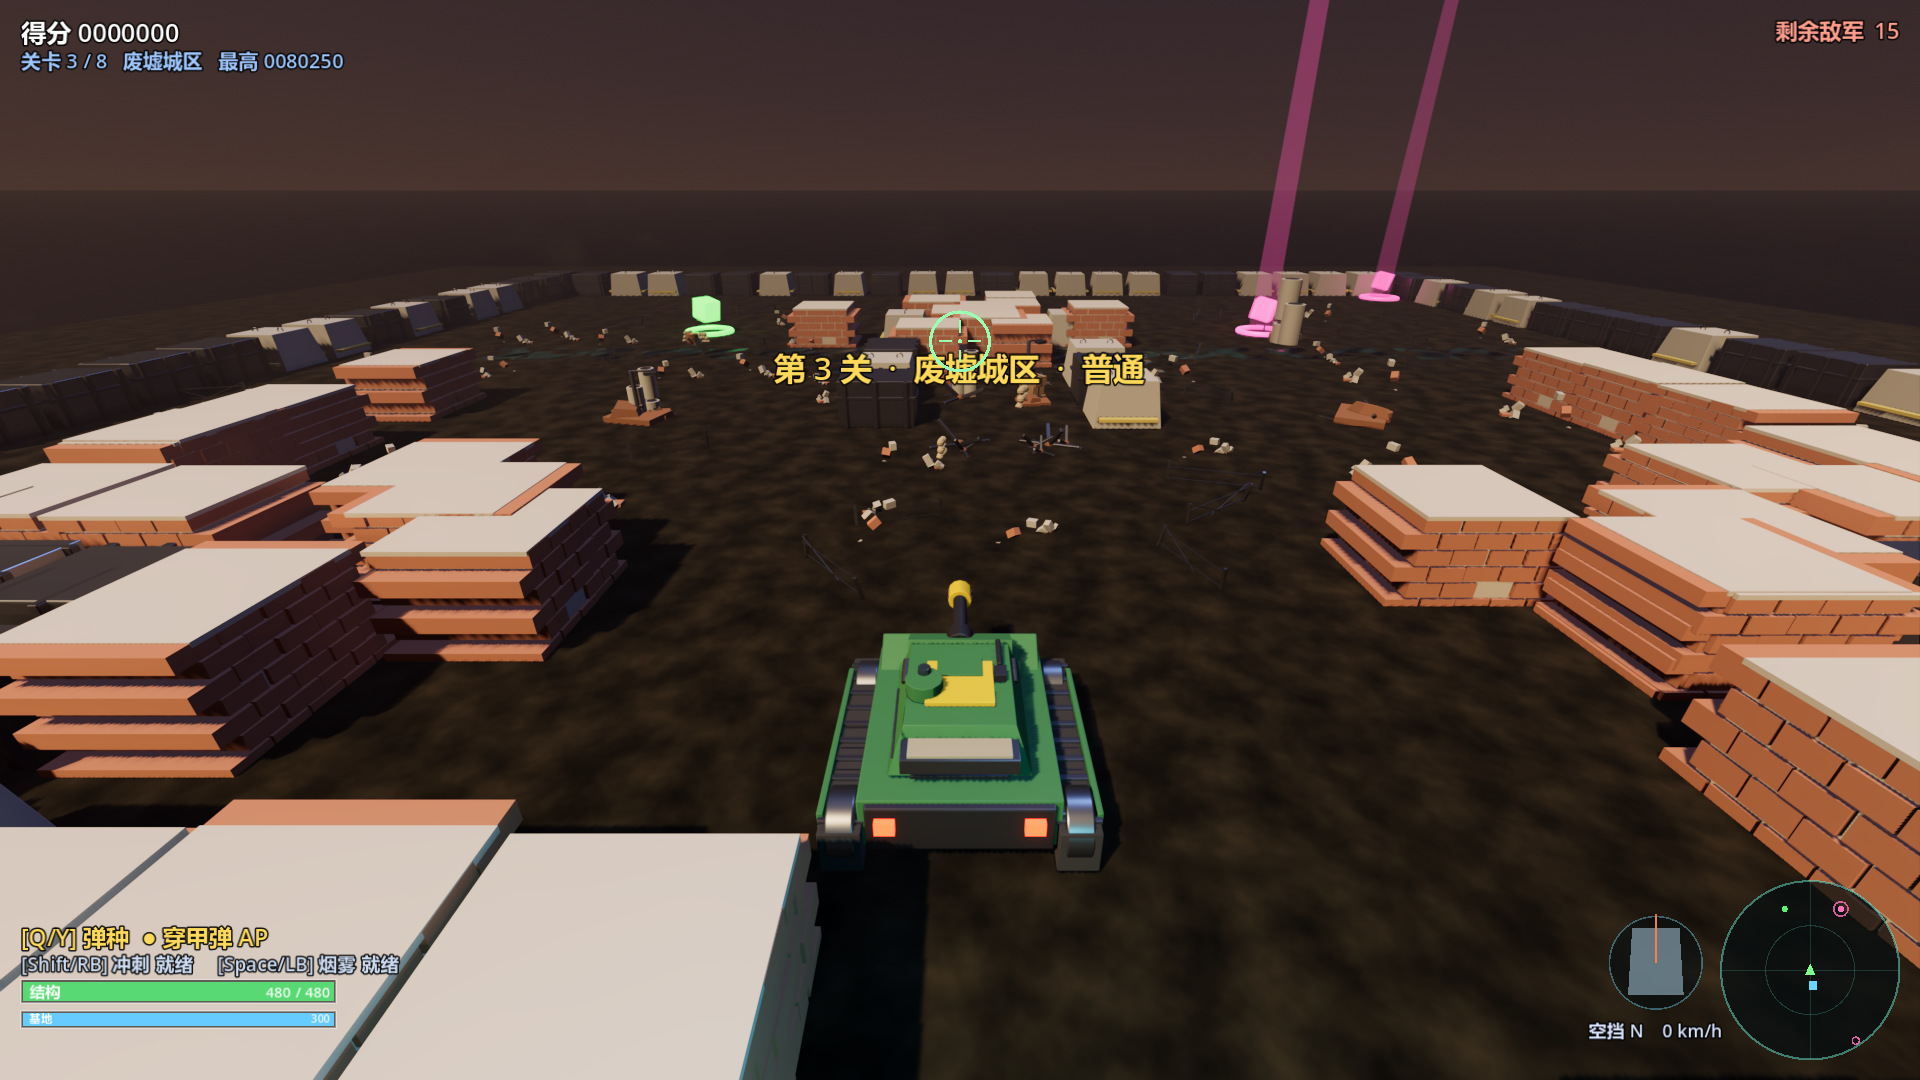
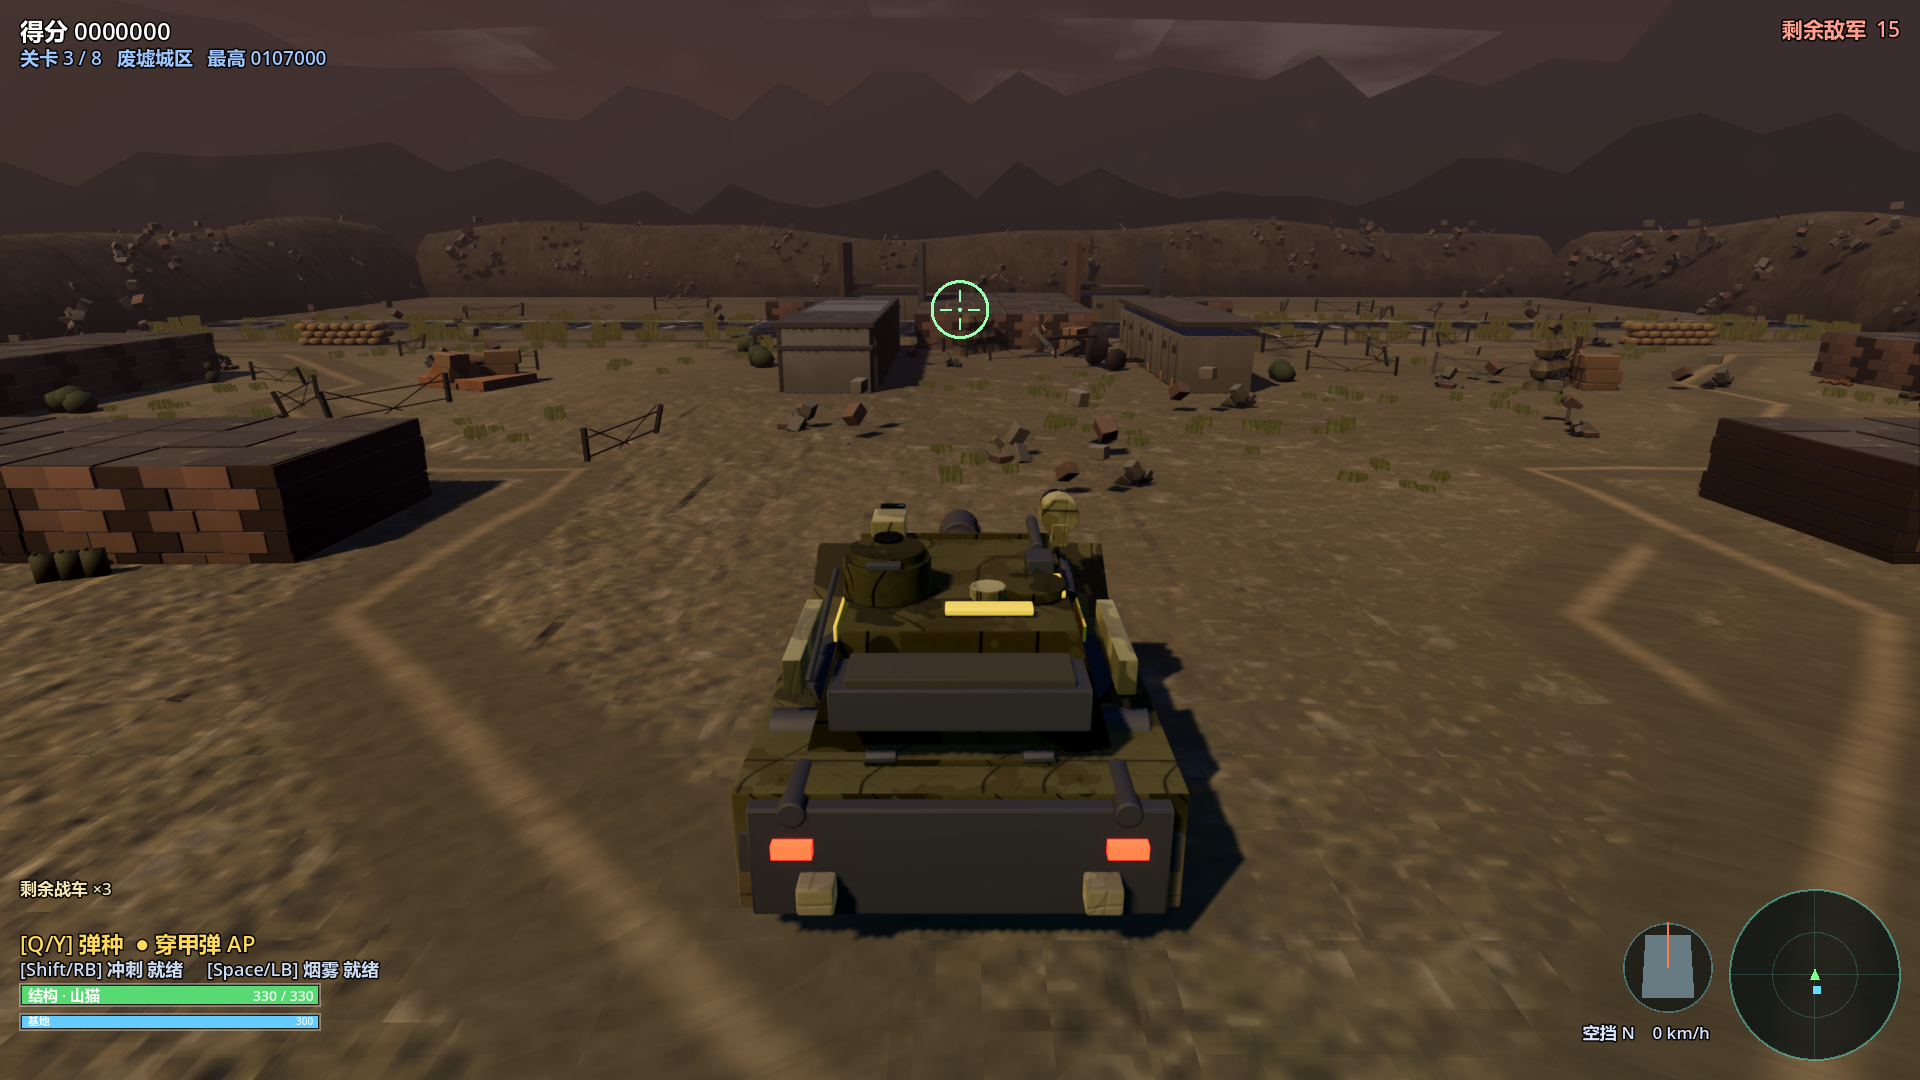
Docs: re-shoot README screenshots at 100% UI scale, correct stale facts
三张图此前是在本地"界面缩放 200%"下拍的：输出仍是 1920x1080，但内容是 960x540
的设计空间放大两倍，HUD 比默认大一倍，车库标题重叠也是这么暴露出来的。现在按默认
100% 重新取景，原生 1080p；战场图另清了压在画面中央的关卡横幅（过场提示，不在
取景判据里）。

README 文字改了三处与代码对不上的地方：

- 脚本行数「约 13600 行」→「约 12500 行」（实测 12544 行，18 个脚本）；
- 地形表第 5 项按代码写成「开阔荒漠」（代码里叫这个名字）；
- 已删除的 _recover/ 专属约定改写成通用的「临时目录不入库」。

diff --git a/README.md b/README.md
@@ -299,7 +299,7 @@ godot --editor --path .
 | 2 | 要塞回廊 `fortress` | 三条纵向长墙切出平行通道，横向短墙切断过长走廊 |
 | 3 | 河谷渡口 `valley` | 2~3 条横向水带，每条只开两处镜像渡口 |
 | 4 | 迷宫街区 `maze` | 3 格间距的横竖细墙网，外圈保留环形外道 |
-| 5 | 开阔荒原 `badlands` | 极少大块掩体 + 一池死水，远距离机动战 |
+| 5 | 开阔荒漠 `badlands` | 极少大块掩体 + 一池死水，远距离机动战 |
 | 6 | 雪原哨所 `snow` | 圆形冰湖 + 零散掩体，通路被湖面挤窄 |
 | 7 | 工业港区 `docks` | 纵向钢制船坞 + 纵向水道 + 货箱堆，交战距离最短 |
 | 8 | 熔岩弹坑 `crater` | 三圈同心环形掩体，每圈只开两个错开缺口，中央熔池 |
@@ -424,7 +424,7 @@ tank-game/
 ├── project.godot                  # 引擎配置：autoload、显示、物理帧率、渲染默认值
 ├── scenes/
 │   └── Main.tscn                  # 唯一场景：一个挂 main.gd 的 Node3D
-├── scripts/                       # 约 13600 行 GDScript，18 个脚本
+├── scripts/                       # 约 12500 行 GDScript，18 个脚本
 │   ├── main.gd                    # 主协调器：状态机、关卡、波次、计分、道具、菜单
 │   ├── arena.gd                   # 战场：网格地形、可破坏掩体、基地、A*、视线、环境、贴花
 │   ├── tank.gd                    # 坦克基类：驱动惯性、炮塔、装填、装甲分区、跳弹
@@ -463,7 +463,7 @@ tank-game/
 
 - **下划线前缀 = 一次性文件**：根目录和 `tools/` 下以 `_` 开头的截图、日志、转储、探针脚本由 `.gitignore` 排除。长期保留的工具与验收探针**不**使用下划线前缀。
 - **不提交构建产物**：`build/`、`tools/shots/`、`*.exe`、`*.pck` 均已在 `.gitignore` 中。
-- **事故恢复目录**：`_recover/` 只放临时抢救出来的文件副本（例如某次 `arena.gd` 损坏时的多个修复版本），确认无误后应删除，不入库。
+- **临时目录不入库**：`_recover/`（事故抢救出的文件副本）、`tools/shots/`（探针截图）等临时目录都由 `.gitignore` 排除，确认无用时直接删掉即可，不要入库。
 
 ---
 
